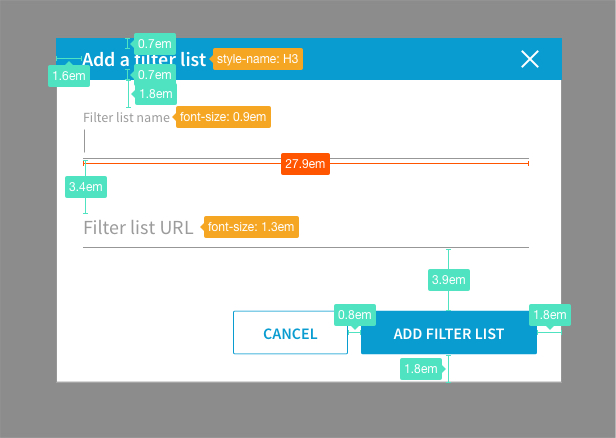
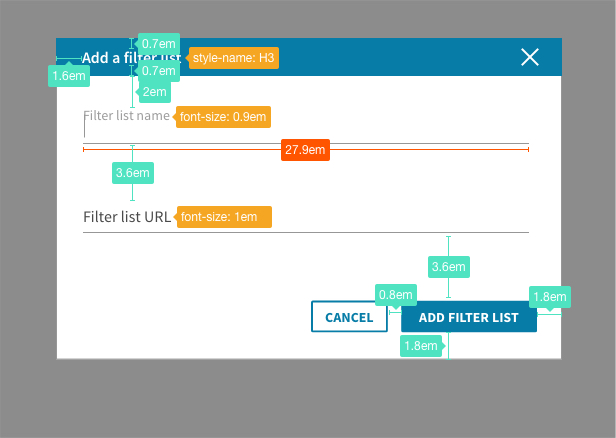
Issue 89: Adjusted font size, padding and increased colour contrast  in the style guide

Changed region(s): [[0.0925, 0.5639, 0.9253, 0.8904], [0.0925, 0.0594, 0.9253, 0.2968], [0.0925, 0.2968, 0.8636, 0.5639]]

diff --git a/spec/abp/options-page-style-guide.md b/spec/abp/options-page-style-guide.md
@@ -3,6 +3,7 @@
 This this the style guide for Adblock Plus desktop and mobile browser extension.
 
 ## Index
+
 1. [Typography](#typography)
 1. [Colour](#colour)
 1. [Navigation](#navigation)
@@ -17,42 +18,45 @@ This this the style guide for Adblock Plus desktop and mobile browser extension.
 1. [Text box](#text-box)
 
 ## Typography
+
 ### Desktop
+
 Font: Source Sans Pro
 
-Line height: 1.5em
+Line height: 1.3em
 
 # H1: Main Heading - 300 (light), 3em, #4A4A4A
-## H2: Section header - 700 (bold), 1.375em, #4A4A4A
-### H3: Bold content within body or form labels - 700 (bold), 1.375em, #4A4A4A
 
-Body: Regular, 400 (regular), 1.25em, #4A4A4A
+## H2: Section header - 700 (bold), 1.125em, #4A4A4A
 
-**Body emphasized: 700 (bold), 1.25em #4A4A4A**
+### H3: Bold content within body or form labels - 700 (bold), 1em, #4A4A4A / #FFF
 
-Text link: 400 (regular), 1.25em #099CD0
+Body: Regular, 400 (regular), 1em, #4A4A4A
 
-Instruction text: Regular, 400 (regular), 1.125em, #4A4A4A
+**Body emphasized: 700 (bold), 1em #4A4A4A**
 
-**LABEL: BUTTON TEXT - 700 (bold), 1.125em, #099CD0/ #FFF**
+Text link: 400 (regular), 1em #077CA6 (underlined)
 
-List item: Line height: 2.5em
+**LABEL: BUTTON TEXT - 700 (bold), 1em, #077CA6 / #FFF**
 
 ### Mobile
+
 # H1: Main Heading - 400 (regular), 1.15em, #4A4A4A
+
 ## H2: Section header - 700 (bold), 1.1em, #4A4A4A
 
 Body: 400 (regular), 1em #4A4A4A
 
 **Body emphasized: 700 (bold), 1em #4A4A4A**
 
-Text link: 400 (regular), 1em #099CD0
+Text link: 400 (regular), 1em #077CA6
 
-**LABEL: BUTTON TEXT - 700 (bold), 1em, #099CD0/ #FFF**
+**LABEL: BUTTON TEXT - 700 (bold), 1em, #077CA6 / #FFF**
 
-List item: Line height: 2em
+Line height: 2em
 
 ## Color
+
 ![](/res/abp/options-page/style-guide/color-light-grey.jpg)
 ![](/res/abp/options-page/style-guide/color-grey.jpg)
 ![](/res/abp/options-page/style-guide/color-dark-grey.jpg)
@@ -64,14 +68,17 @@ List item: Line height: 2em
 ![](/res/abp/options-page/style-guide/color-red.jpg)
 
 ## Navigation
-![](/res/abp/options-page/style-guide/style-navigation-menu.jpg)
+
+![](/res/abp/options-page/style-guide/navigation-menu.jpg)
 
 For wider screens increase the width of the section area (second column) and center the entire options page.
 
 ## Section style 
+
 ![](/res/abp/options-page/style-guide/section-style.jpg) 
 
 ## Checkbox 
+
 | State | Image |
 |------|------|
 | Rest state | ![](/res/abp/options-page/style-guide/checkbox-1-rest-state.jpg) |
@@ -80,9 +87,11 @@ For wider screens increase the width of the section area (second column) and cen
 | Selected state | ![](/res/abp/options-page/style-guide/checkbox-4-selected-state.jpg) |
 
 ## Radio buttons
+
 ![](/res/abp/options-page/style-guide/radio-buttons.jpg)
 
 ## Buttons
+
 | State | Image |
 |------|------|
 | Primary button (active) | ![](/res/abp/options-page/style-guide/primary-button-1-active.jpg) |
@@ -92,81 +101,108 @@ For wider screens increase the width of the section area (second column) and cen
 | Secondary button (hover) | ![](/res/abp/options-page/style-guide/secondary-button-2-hover.jpg) |
 
 ## Popups
+
 ### Tooltips
+
 ![](/res/abp/options-page/style-guide/tooltip-style.jpg)
 
 ### Gear icon
+
 ![](/res/abp/options-page/style-guide/gear-popup.jpg)
 
 ### Banner notifications
+
 ![](/res/abp/options-page/style-guide/whitelisted-websites-notification.jpg)
 
 ## Dropdown
+
 | State | Image |
 |------|------|
 | Rest state (one language) | ![](/res/abp/options-page/style-guide/language-1-rest.jpg) |
 | Hover-over state | ![](/res/abp/options-page/style-guide/language-2-hover.jpg) |
 | Language overlay | [See Dropdown overlay](#dropdown-overlay) |
-| New language added | ![](/res/abp/options-page/style-guide/language-4-two-languages.jpg) [1] |
+| New language added | ![](/res/abp/options-page/style-guide/language-3-multiple.jpg) [1] |
 
 [1] Border highlight disappears after there has been a new interaction on the page.
 
 ## Modal overlays
+
 ### Action overlay
+
 ![](/res/abp/options-page/style-guide/modal-overlay.jpg)
 
 ### Dropdown overlay
-![](/res/abp/options-page/style-guide/language-3-overlay.jpg)
+
+![](/res/abp/options-page/style-guide/language-overlay.jpg)
 
 #### Mobile dropdown
+
 ![](/res/abp/firefox-mobile-options-page/style-guide/style-firefox-mob-options-page-filter-subscriptions.jpg)
 
  See also [Mobile style guide](#mobile-style-guide)
  
 ### Informational overlay
+
 ![](/res/abp/options-page/style-guide/about-overlay.jpg)
 
 ### Form overlay
+
 #### Form default
+
 ![](/res/abp/options-page/style-guide/modal-window-form-default.jpg)
 
 #### Form valid
+
 ![](/res/abp/options-page/style-guide/modal-window-form-valid.jpg)
 
 #### Form error
+
 ![](/res/abp/options-page/style-guide/modal-window-form-error.jpg)
 
 ##### Mobile form overlay
+
 ![](/res/abp/firefox-mobile-options-page/style-guide/style-firefox-mob-options-page-url-filter.jpg)
 
 See also [Mobile style guide](#mobile-style-guide)
 
 ## Tables
+
 ### Default
+
 ![](/res/abp/options-page/style-guide/table-style.jpg)
 
 ### Complex table
+
 ![](/res/abp/options-page/style-guide/complex-table.jpg)
 
 ### Empty state
+
 ![](/res/abp/options-page/style-guide/empty-state.jpg)
 
 ## Text box
+
 ### Default state
+
 ![](/res/abp/options-page/style-guide/text-box.jpg)
 
 ### Active state
+
 ![](/res/abp/options-page/style-guide/text-box-hover.jpg)
 
 ### Error state
+
 ![](/res/abp/options-page/style-guide/text-box-error.jpg)
 
 ## Mobile style guide
+
 ### Mobile home screen
+
 ![](/res/abp/firefox-mobile-options-page/style-guide/style-firefox-mob-options-page.jpg)
 
 ### Mobile modal screen
+
 See [Mobile form overlay](#mobile-form-overlay)
 
 ### Mobile modal dropdown
+
 See [Mobile dropdown](#mobile-dropdown)
